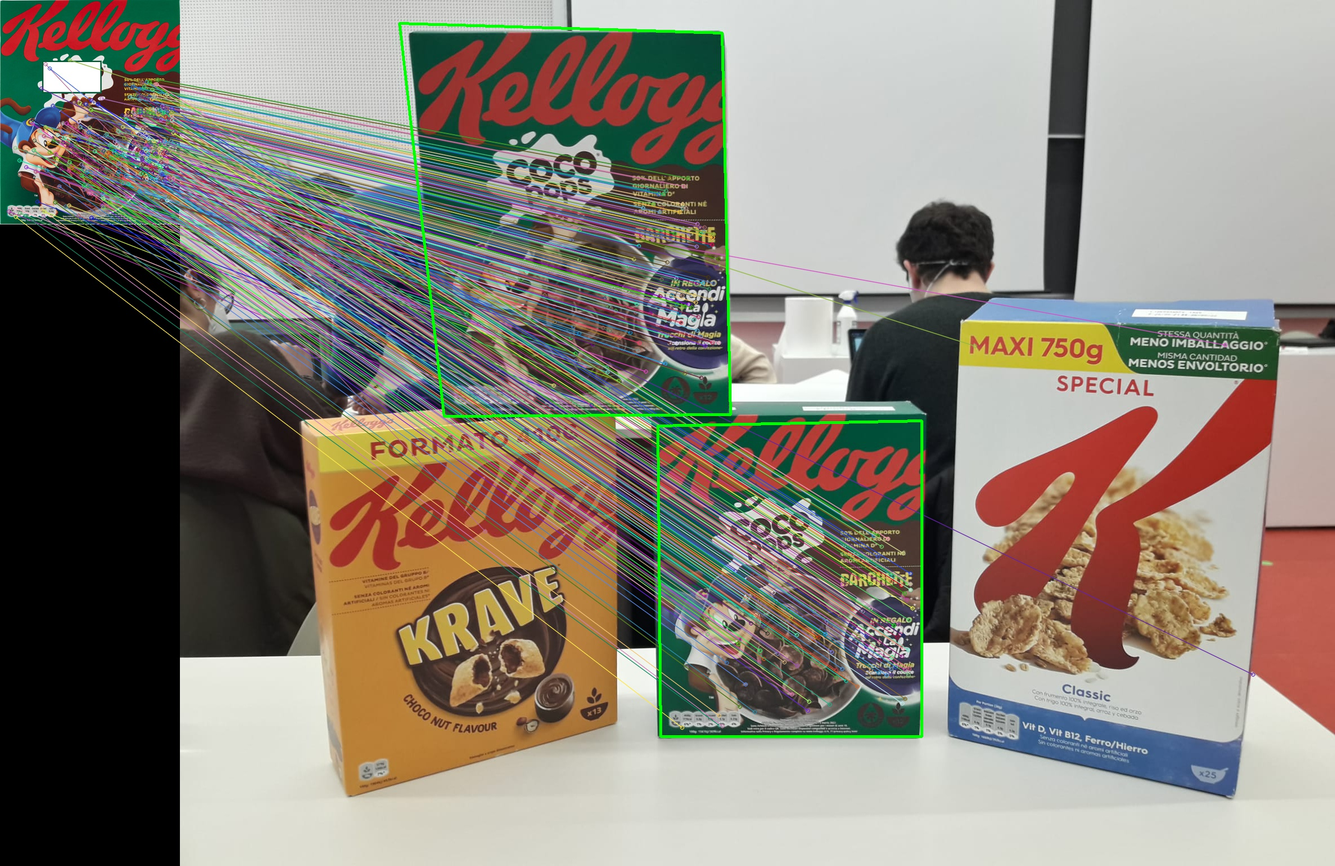
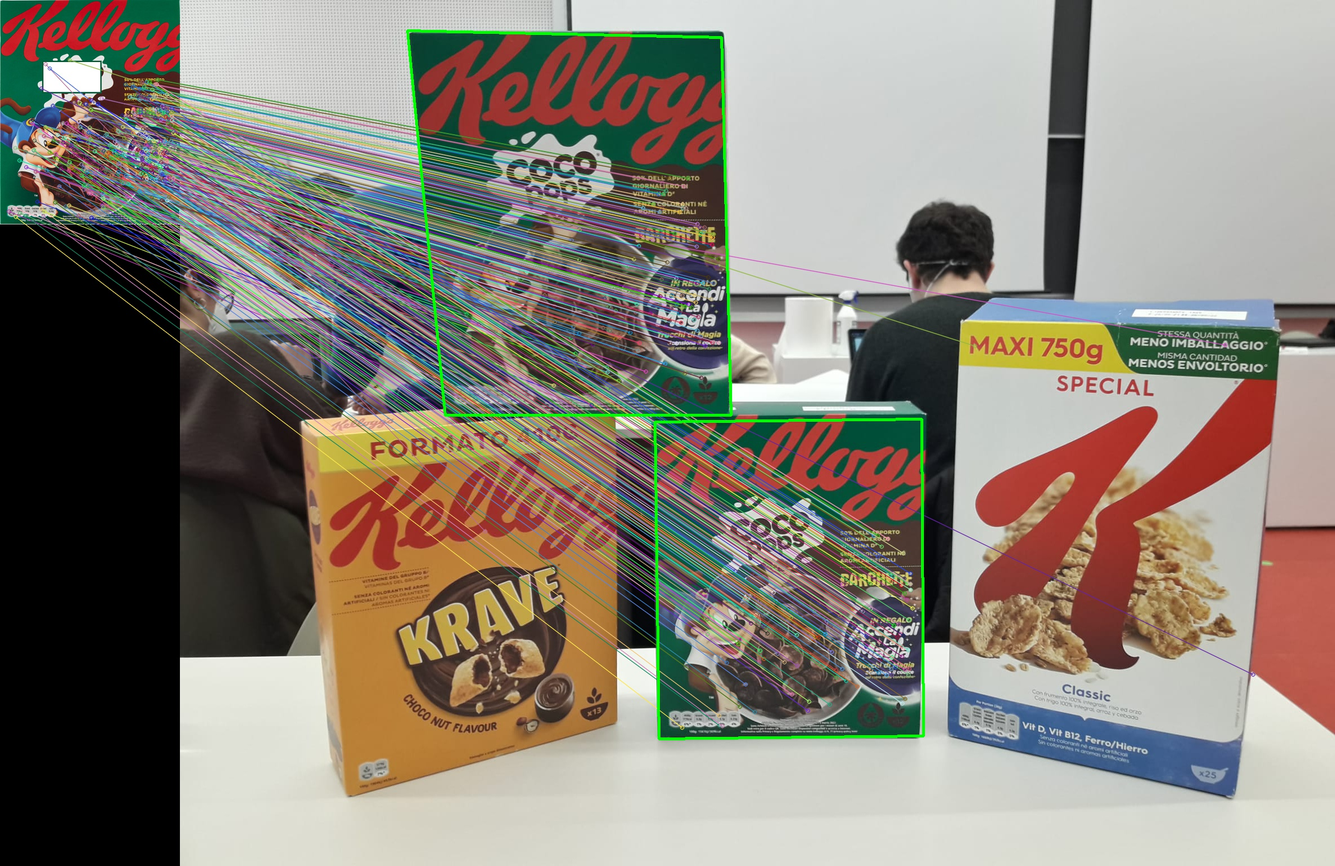
modified ransac standard number of iterations

diff --git a/template_match_multiple_templates.py b/template_match_multiple_templates.py
@@ -75,6 +75,7 @@ for i, t in enumerate(templates):
             obj[z,1] = (keypoints_templates[i])[good_matches[z].queryIdx].pt[1]
             scene[z,0] = keypoints_scene[good_matches[z].trainIdx].pt[0]
             scene[z,1] = keypoints_scene[good_matches[z].trainIdx].pt[1]
+        #cv.findHomography(obj, scene, cv.RANSAC, confidence = 0.995, ransacReprojThreshold=5)
         H, inliers_mask =  customFindHomography(obj,scene,0.6)
         # H homography from template to scene
         H = np.asarray(H)

diff --git a/template_matching_1.py b/template_matching_1.py
@@ -45,6 +45,7 @@ while(oldSize != newSize and len(good_matches) >= 4):
         obj[i,1] = keypoints_obj[good_matches[i].queryIdx].pt[1]
         scene[i,0] = keypoints_scene[good_matches[i].trainIdx].pt[0]
         scene[i,1] = keypoints_scene[good_matches[i].trainIdx].pt[1]
+    #cv.findHomography(obj, scene, cv.RANSAC, confidence = 0.995, ransacReprojThreshold=5)
     H, mask =  customFindHomography(obj,scene,0.6)
     # H homography from template to scene
     H = np.asarray(H)

diff --git a/customRansac.py b/customRansac.py
@@ -67,7 +67,7 @@ def customFindHomography(obj,scene, thresh):
     maxInliers = []
     finalH = None
     finalMask = np.zeros(shape = (len(obj[:,0])) )
-    for i in range(300):
+    for i in range(600):
 
         mask = np.zeros(shape = (len(obj[:,0])) )
 
